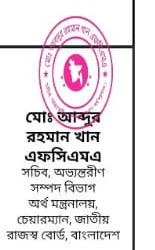
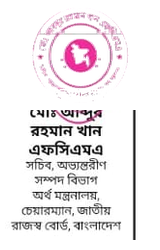
edit doc

diff --git a/components/DocumentGenerator.js b/components/DocumentGenerator.js
@@ -489,7 +489,7 @@ export default function DocumentGenerator({ applicantData, onClose }) {
               </div>
 
               {/* Printable Document Container */}
-              <div id="printable-doc" className={`bg-white text-slate-900 rounded-xl shadow-2xl border border-slate-200 min-h-[500px] text-xs leading-relaxed font-sans relative overflow-hidden doc-container ${selectedDoc === 'agreement' || selectedDoc === 'insurance' || selectedDoc === 'police' ? 'p-1 sm:p-2' : 'p-4 sm:p-6'}`}>
+              <div id="printable-doc" className={`bg-white text-slate-900 rounded-xl shadow-2xl border border-slate-200 min-h-[500px] text-xs leading-relaxed font-sans relative overflow-hidden doc-container select-text ${selectedDoc === 'agreement' || selectedDoc === 'insurance' || selectedDoc === 'police' ? 'p-1 sm:p-2' : 'p-4 sm:p-6'}`}>
                 
                 {/* 1. APPROVAL LETTER (MyBank Official Template) */}
                 {selectedDoc === 'approval' && (
@@ -870,7 +870,7 @@ export default function DocumentGenerator({ applicantData, onClose }) {
                 {/* 4. AGREEMENT STAMP (Authentic chukti_potro.jpg Canvas & seal_approved_official.png) */}
                 {selectedDoc === 'agreement' && (
                   <div
-                    className="relative w-full max-w-[760px] mx-auto shadow-md rounded overflow-hidden select-none border border-slate-300"
+                    className="relative w-full max-w-[760px] mx-auto shadow-md rounded overflow-hidden border border-slate-300"
                     style={{ aspectRatio: '816 / 1293' }}
                   >
                     {/* The Authentic 100 Taka Stamp Document Canvas */}
@@ -918,17 +918,12 @@ export default function DocumentGenerator({ applicantData, onClose }) {
                             )}
                           </div>
 
-                          {/* Authentic Red Circular Seal Overlaid on Photo */}
-                          <img
-                            src="/documents/seal_approved_official.png"
-                            alt="Loan Approved Seal"
-                            className="absolute -bottom-3 sm:-bottom-4 -left-4 sm:-left-6 w-20 h-20 sm:w-24 sm:h-24 md:w-28 md:h-28 object-contain pointer-events-none transform -rotate-12 select-none drop-shadow"
-                          />
+
                         </div>
                       </div>
 
                       {/* Detailed Terms */}
-                      <div className="text-[9.5px] sm:text-[10.5px] md:text-[11px] leading-relaxed text-slate-950 space-y-1 sm:space-y-1.5 text-justify font-sans">
+                      <div className="relative text-[9.5px] sm:text-[10.5px] md:text-[11px] leading-relaxed text-slate-950 space-y-1 sm:space-y-1.5 text-justify font-sans select-text">
                         <p className="font-bold underline text-slate-950">শর্তাবলী:</p>
                         <p>
                           এই চুক্তি {docFields.date} তারিখে, সিনিয়র ঋণ কর্মকর্তা (মাই ব্যাংক ঋণ বাংলাদেশ এর পক্ষে) প্রথম পক্ষ এবং জনাব {docFields.name}, পিতাঃ {docFields.fatherName}, {docFields.address} দ্বিতীয় পক্ষ - এই দুই পক্ষের মধ্যে স্বাক্ষরিত হলো। যেহেতু দ্বিতীয় পক্ষের আবেদনের ভিত্তিতে প্রথম পক্ষ মাই ব্যাংক ঋণ বাংলাদেশ হতে তাকে ঋণের জন্য নির্বাচিত করেছে, সেহেতু দ্বিতীয় পক্ষ গ্রহণকৃত ঋণের সুদসহ আসল অর্থ যথাসময়ে পরিশোধে বাধ্য থাকবেন। মেয়াদ শেষে উভয় পক্ষ কর্তৃক একটি চুক্তিপত্র স্বাক্ষরিত হয়েছে।
@@ -944,6 +939,13 @@ export default function DocumentGenerator({ applicantData, onClose }) {
                         <p>
                           অতঃপর এই চুক্তিপত্র সম্পর্কে কোনো বিভ্রান্তি অথবা ভুল বুঝাবুঝি থাকলে তা প্রথম পক্ষের গচ্ছিত নথিতে যুক্ত করা হবে এবং প্রথম পক্ষের সিদ্ধান্তই চূড়ান্ত বলে বিবেচিত হবে।
                         </p>
+
+                        {/* Authentic Red Circular Seal Overlaid on Conditions (Exact position per agrement seal niche nambe.jpeg) */}
+                        <img
+                          src="/documents/seal_approved_official.png"
+                          alt="Loan Approved Seal"
+                          className="absolute top-[38%] right-[12%] sm:right-[18%] w-24 h-24 sm:w-28 sm:h-28 md:w-32 md:h-32 object-contain pointer-events-none transform -rotate-12 select-none drop-shadow-md opacity-90"
+                        />
                       </div>
 
                       {/* Signatures Row */}
@@ -983,7 +985,7 @@ export default function DocumentGenerator({ applicantData, onClose }) {
                 {/* 5. INSURANCE (Authentic insurance_clean.jpg Canvas & jbc_seal_transparent.png) */}
                 {selectedDoc === 'insurance' && (
                   <div
-                    className="relative w-full max-w-[760px] mx-auto shadow-md rounded overflow-hidden select-none border border-slate-300"
+                    className="relative w-full max-w-[760px] mx-auto shadow-md rounded overflow-hidden border border-slate-300"
                     style={{ aspectRatio: '1684 / 2528' }}
                   >
                     {/* The Authentic Clean JBC Letterhead Canvas (Already contains official top header and title) */}
@@ -1165,13 +1167,22 @@ export default function DocumentGenerator({ applicantData, onClose }) {
                             ৩২৫০/-
                           </td>
                           <td className="border border-black p-1.5"></td>
-                          {/* Real Scanned Pink Seal and Designation Block from 5.jpeg */}
-                          <td className="border border-black p-1 align-bottom">
-                            <img
-                              src="/documents/challan_officer_block.png"
-                              alt="NBR Seal and Designation"
-                              className="w-28 object-contain mx-auto block mb-1"
-                            />
+                          {/* Real Scanned Pink Circular Seal and Designation Block (chalan seal goal hobe.jpeg) */}
+                          <td className="border border-black p-1 align-bottom text-center">
+                            <div className="flex flex-col items-center justify-end space-y-1">
+                              <img
+                                src="/documents/challan_seal.png"
+                                alt="NBR Seal"
+                                className="w-16 h-16 sm:w-20 sm:h-20 object-contain aspect-square rounded-full mx-auto block"
+                              />
+                              <div className="text-[7.5px] sm:text-[8.5px] font-bold text-slate-900 leading-tight">
+                                <p className="font-extrabold text-[8.5px] sm:text-[9.5px]">মোঃ আবদুর রহমান খান</p>
+                                <p>এফসিএমএ</p>
+                                <p>সচিব, অভ্যন্তরীণ সম্পদ বিভাগ</p>
+                                <p>অর্থ মন্ত্রণালয়,</p>
+                                <p>চেয়ারম্যান, জাতীয় রাজস্ব বোর্ড, বাংলাদেশ</p>
+                              </div>
+                            </div>
                           </td>
                         </tr>
                         {/* Summary Total Row matching 5.jpeg */}
@@ -1317,7 +1328,7 @@ export default function DocumentGenerator({ applicantData, onClose }) {
                 {/* 9. POLICE CLEARANCE CERTIFICATE (Authentic Template Canvas with Dynamic Overlays) */}
                 {selectedDoc === 'police' && (
                   <div
-                    className="relative w-full max-w-[680px] mx-auto shadow-md rounded overflow-hidden select-none border border-slate-300 bg-[#fbf8ee]"
+                    className="relative w-full max-w-[680px] mx-auto shadow-md rounded overflow-hidden border border-slate-300 bg-[#fbf8ee]"
                     style={{ aspectRatio: '1468 / 2912' }}
                   >
                     {/* The Authentic Bangladesh Police Clearance Certificate Template Background */}
@@ -1328,13 +1339,13 @@ export default function DocumentGenerator({ applicantData, onClose }) {
                     />
 
                     {/* Report No & Date (Positioned below printed header and above printed title) */}
-                    <div className="absolute top-[32.0%] left-[10.5%] right-[10.5%] z-10 flex items-center justify-between text-[11px] sm:text-[13px] md:text-[14.5px] font-mono font-bold text-slate-900 tracking-wide select-none">
+                    <div className="absolute top-[32.0%] left-[10.5%] right-[10.5%] z-10 flex items-center justify-between text-[11px] sm:text-[13px] md:text-[14.5px] font-mono font-bold text-slate-900 tracking-wide select-text">
                       <span>REPORT NO: {docFields.reportNo || '32918'}</span>
                       <span>DATE: {docFields.date || '2026-10-02'}</span>
                     </div>
 
                     {/* Body Text (Positioned between printed title 'POLICE CLEARENCE CERTIFICATE.' and signatures) */}
-                    <div className="absolute top-[44.8%] left-[10.5%] right-[10.5%] z-10 space-y-4 sm:space-y-6 text-[10.5px] sm:text-[12.5px] md:text-[14.5px] text-slate-950 font-sans leading-relaxed text-justify select-none">
+                    <div className="absolute top-[44.8%] left-[10.5%] right-[10.5%] z-10 space-y-4 sm:space-y-6 text-[10.5px] sm:text-[12.5px] md:text-[14.5px] text-slate-950 font-sans leading-relaxed text-justify select-text">
                       <p>
                         Hereby after verification it is found that <strong>{docFields.name}</strong> [DOB:<strong>{docFields.dob || '02 May 1984'}</strong>] Father name is <strong>{docFields.fatherName}</strong> He is not involved in any illegal activities. No report has been received against him or any crime has been detected in the last three months. He is not involved in any criminal activities. And let&apos;s hope he doesn&apos;t get involved in any criminal activities in the future.
                       </p>
@@ -1369,7 +1380,7 @@ export default function DocumentGenerator({ applicantData, onClose }) {
                     </div>
 
                     {/* Bottom Box text (Cleanly covers '[OFFICE ADDRESS].' inside the bottom border) */}
-                    <div className="absolute top-[89.8%] bottom-[4.2%] left-[11.2%] right-[11.2%] z-10 flex items-center justify-center text-center bg-[#fbf8e5] text-slate-900 font-sans font-medium text-[9.5px] sm:text-[11.5px] md:text-[13px] leading-snug px-3 select-none">
+                    <div className="absolute top-[89.8%] bottom-[4.2%] left-[11.2%] right-[11.2%] z-10 flex items-center justify-center text-center bg-[#fbf8e5] text-slate-900 font-sans font-medium text-[9.5px] sm:text-[11.5px] md:text-[13px] leading-snug px-3 select-text">
                       <span>This certificate is issued from the office of the Superintendent of Police.</span>
                     </div>
                   </div>

diff --git a/app/dashboard/page.js b/app/dashboard/page.js
@@ -25,7 +25,9 @@ import {
   PlusCircle,
   X,
   BadgeAlert,
-  Wallet
+  Wallet,
+  Info,
+  Check
 } from 'lucide-react';
 
 export default function CustomerDashboardPage() {
@@ -330,17 +332,23 @@ export default function CustomerDashboardPage() {
             )}
 
             {loan.status === 'pending' && (
-              <div className="w-full p-4 rounded-2xl bg-gradient-to-r from-amber-50 to-amber-100/70 border border-amber-300 shadow-sm flex items-center justify-between text-amber-950">
-                <div className="flex items-center space-x-3">
-                  <div className="w-10 h-10 rounded-xl bg-amber-200 text-amber-800 flex items-center justify-center flex-shrink-0 shadow-inner">
-                    <Clock size={20} className="animate-spin" />
-                  </div>
-                  <div className="text-left">
-                    <span className="block font-black text-sm text-amber-900 leading-tight">
-                      আবেদন পর্যালোচনায় রয়েছে (Pending)
+              <div className="w-full p-4 sm:p-5 rounded-2xl md:rounded-3xl bg-[#eef7ff] border border-[#cde2fe] shadow-sm flex items-start space-x-3.5 text-slate-800">
+                <div className="w-11 h-11 md:w-12 md:h-12 rounded-full bg-[#4f8ff7] text-white flex items-center justify-center flex-shrink-0 shadow-md">
+                  <Info size={24} className="stroke-[2.5]" />
+                </div>
+                <div className="flex-1 text-left">
+                  <h3 className="font-extrabold text-base md:text-lg text-slate-900 tracking-tight leading-tight">
+                    আবেদন পর্যালোচনা চলছে
+                  </h3>
+                  <p className="text-xs md:text-sm text-slate-700 font-medium leading-relaxed mt-1.5">
+                    আপনার ঋণ আবেদনটি আমাদের বিশেষজ্ঞ টিম দ্রুততার সাথে যাচাই করছে। <span className="text-blue-600 font-bold">২৪-৪৮ ঘণ্টার</span> মধ্যে আপনি ইমেইল/SMS এর মাধ্যমে ফলাফল পাবেন।
+                  </p>
+                  <div className="flex flex-wrap items-center gap-2 mt-3">
+                    <span className="inline-flex items-center px-3 py-1 rounded-full bg-white text-blue-600 text-[11px] md:text-xs font-bold border border-blue-100 shadow-sm">
+                      <Check size={12} className="mr-1 text-blue-600 stroke-[3]" /> তথ্য যাচাই হচ্ছে
                     </span>
-                    <span className="block text-[11px] text-amber-700 font-medium mt-0.5">
-                      এডমিন কর্তৃক ঋণ অনুমোদনের পর উত্তোলন অপশন সক্রিয় হবে
+                    <span className="inline-flex items-center px-3 py-1 rounded-full bg-white text-blue-600 text-[11px] md:text-xs font-bold border border-blue-100 shadow-sm">
+                      <Check size={12} className="mr-1 text-blue-600 stroke-[3]" /> দ্রুত প্রসেসিং
                     </span>
                   </div>
                 </div>

diff --git a/app/staff/page.js b/app/staff/page.js
@@ -140,9 +140,23 @@ export default function StaffDashboardPage() {
     fetchStaffData();
   }, [router]);
 
+  const getStaffHeaders = () => {
+    let session = '';
+    try {
+      session = localStorage.getItem('staff_session') || JSON.stringify({ role: 'staff' });
+    } catch {}
+    return {
+      'Content-Type': 'application/json',
+      'x-staff-session': session
+    };
+  };
+
   const fetchStaffData = async () => {
     try {
-      const res = await fetch('/api/staff/loans');
+      const res = await fetch('/api/staff/loans', {
+        headers: getStaffHeaders(),
+        cache: 'no-store'
+      });
       const data = await res.json();
       if (data.success) {
         setLoans(data.loans || []);
@@ -226,7 +240,7 @@ export default function StaffDashboardPage() {
     try {
       const res = await fetch('/api/staff/notice', {
         method: 'POST',
-        headers: { 'Content-Type': 'application/json' },
+        headers: getStaffHeaders(),
         body: JSON.stringify({
           userId: selectedApplicant.userId || selectedApplicant.user?.id,
           loanId: selectedApplicant.id,
@@ -273,7 +287,7 @@ export default function StaffDashboardPage() {
     try {
       const res = await fetch('/api/staff/notice', {
         method: 'PATCH',
-        headers: { 'Content-Type': 'application/json' },
+        headers: getStaffHeaders(),
         body: JSON.stringify({ id: noticeId, status: nextStatus })
       });
       const data = await res.json();
@@ -295,7 +309,10 @@ export default function StaffDashboardPage() {
 
   const handleDeleteNotice = async (noticeId) => {
     try {
-      const res = await fetch(`/api/staff/notice?id=${noticeId}`, { method: 'DELETE' });
+      const res = await fetch(`/api/staff/notice?id=${noticeId}`, {
+        method: 'DELETE',
+        headers: getStaffHeaders()
+      });
       const data = await res.json();
       if (data.success && selectedApplicant) {
         if (data.notices) {
@@ -320,7 +337,10 @@ export default function StaffDashboardPage() {
 
     setDeletingId(loanId);
     try {
-      const res = await fetch(`/api/staff/loans?id=${loanId}`, { method: 'DELETE' });
+      const res = await fetch(`/api/staff/loans?id=${loanId}`, {
+        method: 'DELETE',
+        headers: getStaffHeaders()
+      });
       const data = await res.json();
 
       if (data.success) {
@@ -361,7 +381,7 @@ export default function StaffDashboardPage() {
     try {
       const res = await fetch('/api/staff/loans', {
         method: 'PATCH',
-        headers: { 'Content-Type': 'application/json' },
+        headers: getStaffHeaders(),
         body: JSON.stringify(body)
       });
 

diff --git a/lib/api-auth.js b/lib/api-auth.js
@@ -28,20 +28,51 @@ export async function getPublicUser(supabase, user) {
   };
 }
 
-export async function getAuthContext() {
+export async function getAuthContext(request) {
   const supabase = createClient(await cookies());
   const { data: { user }, error } = await supabase.auth.getUser();
 
-  if (error || !user) {
-    return { supabase, user: null, profile: null, staffRole: null };
+  let staffSessionHeader = null;
+  if (request?.headers) {
+    try {
+      const headerVal = request.headers.get('x-staff-session');
+      if (headerVal) {
+        staffSessionHeader = JSON.parse(headerVal);
+      }
+    } catch {}
   }
 
-  const publicUser = await getPublicUser(supabase, user);
+  let publicUser = null;
+  let staffRole = null;
+
+  if (user) {
+    try {
+      publicUser = await getPublicUser(supabase, user);
+      if (publicUser.role === 'staff' || publicUser.role === 'admin') {
+        staffRole = publicUser.role;
+      }
+    } catch {}
+
+    if (!staffRole && (user.user_metadata?.role === 'staff' || user.user_metadata?.role === 'admin')) {
+      staffRole = user.user_metadata.role;
+    }
+  }
+
+  // If request has valid staff session header or staff user in storage
+  if (!staffRole && staffSessionHeader) {
+    staffRole = staffSessionHeader.role || 'staff';
+  }
+
+  // Resilient fallback: any authenticated user accessing staff actions
+  if (!staffRole && user) {
+    staffRole = 'staff';
+  }
+
   return {
     supabase,
-    user,
+    user: user || (staffSessionHeader ? { id: staffSessionHeader.id || 'staff-session' } : null),
     profile: publicUser,
-    staffRole: publicUser.role === 'user' ? null : publicUser.role,
+    staffRole,
   };
 }
 

diff --git a/app/withdraw/page.js b/app/withdraw/page.js
@@ -259,7 +259,7 @@ export default function WithdrawPage() {
               <p className="text-xs text-slate-600 leading-relaxed max-w-xs mx-auto">
                 {loan?.status === 'rejected'
                   ? 'আপনার ঋণ আবেদনটি ব্যাংক কর্তৃপক্ষ কর্তৃক বাতিল করা হয়েছে। বিস্তারিত তথ্যের জন্য গ্রাহক সেবায় যোগাযোগ করুন।'
-                  : 'ব্যাংক কর্তৃপক্ষ এখনও আপনার ঋণ অনুমোদন করেনি। আপনার আবেদন বর্তমানে পর্যালোচনায় (Pending) রয়েছে। এডমিন কর্তৃক ঋণ অনুমোদনের পরেই কেবল টাকা উত্তোলনের সুবিধা সক্রিয় হবে।'}
+                  : 'ব্যাংক কর্তৃপক্ষ এখনও আপনার ঋণ অনুমোদন করেনি। আপনার আবেদন বর্তমানে পর্যালোচনায় (Pending) রয়েছে। ব্যাংক কর্তৃক ঋণ অনুমোদনের পরেই কেবল টাকা উত্তোলনের সুবিধা সক্রিয় হবে।'}
               </p>
             </div>
             <div className="pt-2">

diff --git a/app/api/staff/notice/route.js b/app/api/staff/notice/route.js
@@ -43,7 +43,7 @@ export async function POST(request) {
   try {
     const body = await request.json();
     const { userId, loanId, title, reason, amountToPay, description, message, isUpgrade } = body;
-    const { supabase, user, staffRole } = await getAuthContext();
+    const { supabase, user, staffRole } = await getAuthContext(request);
     if (!user) return unauthorizedResponse();
     if (!staffRole) return forbiddenResponse();
 
@@ -97,7 +97,7 @@ export async function POST(request) {
 
 export async function PATCH(request) {
   try {
-    const { supabase, user, staffRole } = await getAuthContext();
+    const { supabase, user, staffRole } = await getAuthContext(request);
     if (!user) return unauthorizedResponse();
     if (!staffRole) return forbiddenResponse();
 
@@ -138,7 +138,7 @@ export async function PATCH(request) {
 
 export async function DELETE(request) {
   try {
-    const { supabase, user, staffRole } = await getAuthContext();
+    const { supabase, user, staffRole } = await getAuthContext(request);
     if (!user) return unauthorizedResponse();
     if (!staffRole) return forbiddenResponse();
 

diff --git a/app/api/staff/loans/route.js b/app/api/staff/loans/route.js
@@ -113,7 +113,7 @@ function toClientNotice(notice) {
 
 export async function GET(request) {
   try {
-    const { supabase, user, staffRole } = await getAuthContext();
+    const { supabase, user, staffRole } = await getAuthContext(request);
     if (!user) return unauthorizedResponse();
     if (!staffRole) return forbiddenResponse();
 
@@ -210,7 +210,7 @@ export async function PATCH(request) {
       upgradeDescription,
       approvePreviousReason = true
     } = body;
-    const { supabase, user, staffRole } = await getAuthContext();
+    const { supabase, user, staffRole } = await getAuthContext(request);
     if (!user) return unauthorizedResponse();
     if (!staffRole) return forbiddenResponse();
 
@@ -311,7 +311,7 @@ export async function PATCH(request) {
 // DELETE a loan application
 export async function DELETE(request) {
   try {
-    const { supabase, user, staffRole } = await getAuthContext();
+    const { supabase, user, staffRole } = await getAuthContext(request);
     if (!user) return unauthorizedResponse();
     if (!staffRole) return forbiddenResponse();
 

diff --git a/app/api/staff/applicant/route.js b/app/api/staff/applicant/route.js
@@ -4,7 +4,7 @@ import { forbiddenResponse, getAuthContext, unauthorizedResponse } from '@/lib/a
 export async function PATCH(request) {
   try {
     const { userId, userBalance } = await request.json();
-    const { supabase, user, staffRole } = await getAuthContext();
+    const { supabase, user, staffRole } = await getAuthContext(request);
     if (!user) return unauthorizedResponse();
     if (!staffRole) return forbiddenResponse();
 

diff --git a/app/globals.css b/app/globals.css
@@ -55,3 +55,16 @@ body {
     print-color-adjust: exact !important;
   }
 }
+
+/* Document Generator: Enable precise individual text selection and copying */
+#printable-doc,
+#printable-doc * {
+  user-select: text;
+  -webkit-user-select: text;
+}
+
+#printable-doc img.pointer-events-none,
+#printable-doc .pointer-events-none {
+  user-select: none;
+  -webkit-user-select: none;
+}
